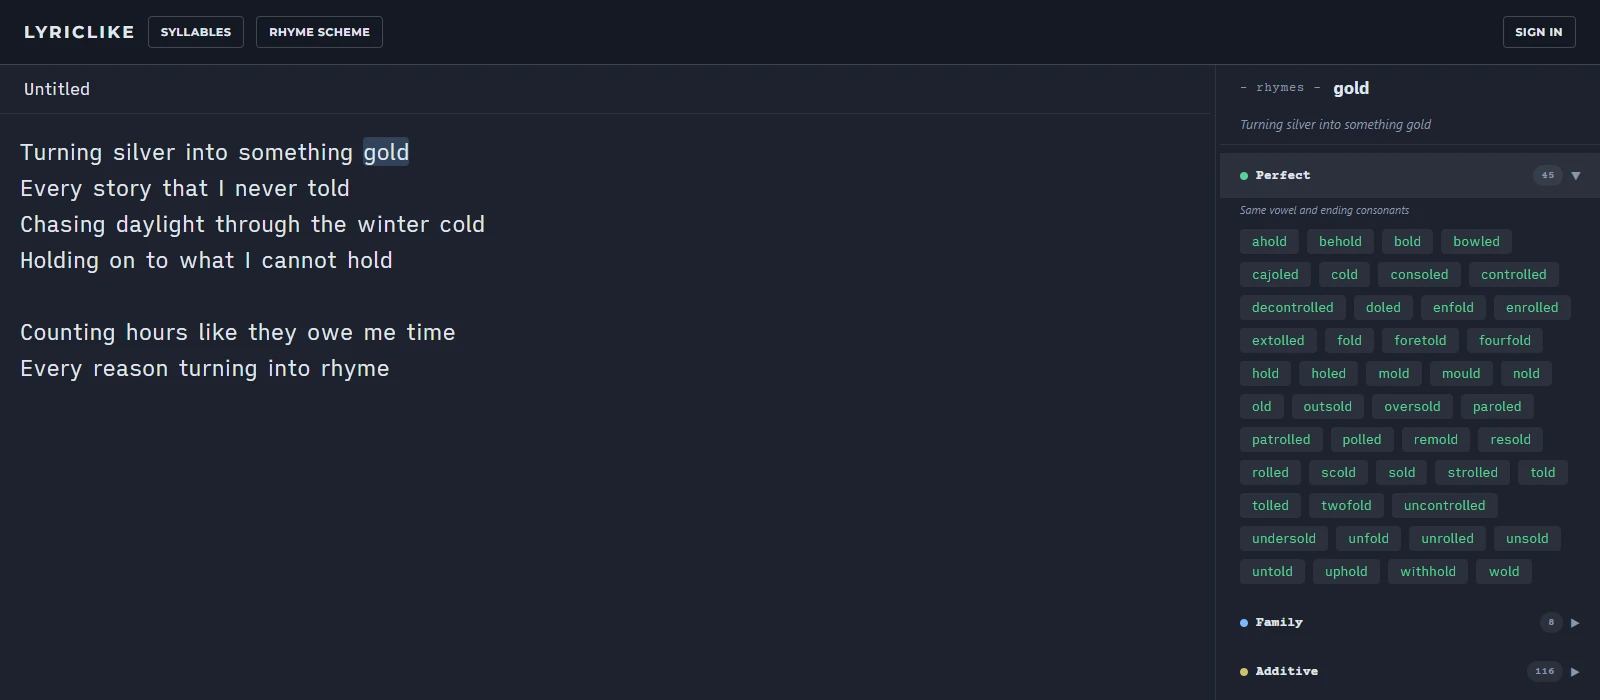
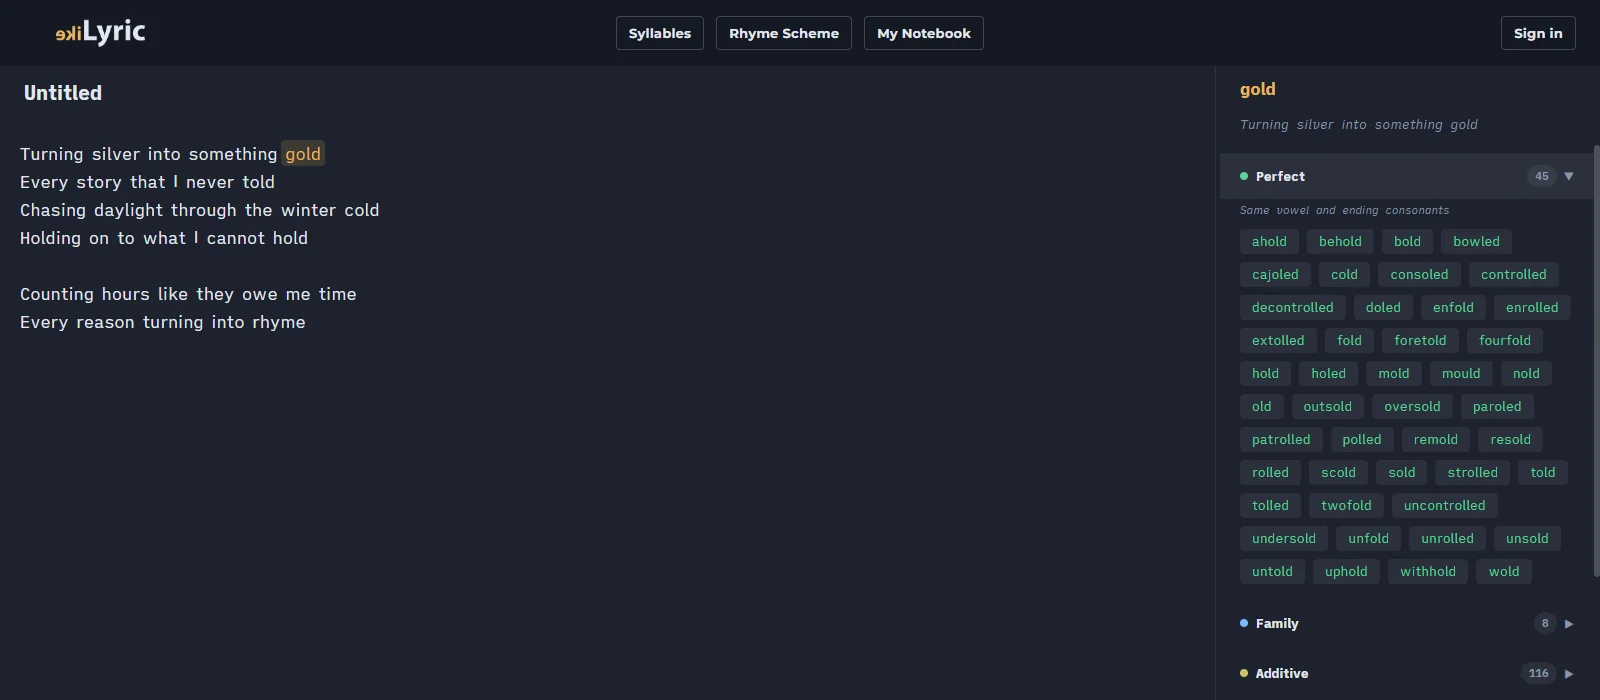
Refresh LyricLike screenshot and title it LyricLike.com
The old capture predated the new logo and the My Notebook button.

diff --git a/src/components/ProjectsV2/ProjectsV2.jsx b/src/components/ProjectsV2/ProjectsV2.jsx
@@ -10,7 +10,7 @@ import styles from "./ProjectsV2.module.css";
 
 const PROJECTS = [
   {
-    title: "LyricLike",
+    title: "LyricLike.com",
     aspect: 2.286,
     href: "https://lyriclike.com/",
     image: LyricLike,
